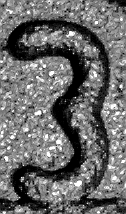
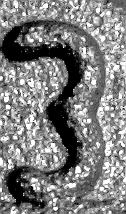
Refactor OCR prediction process to enhance candidate selection and confidence handling; update debug image outputs

diff --git a/character_recognition/predict_easyocr.py b/character_recognition/predict_easyocr.py
@@ -98,46 +98,71 @@ def predict_regions(image_path, annotations_file):
     plt.show()
     
     # Process each region with OCR and build predictions
+    from collections import Counter
     for idx, (region_image, coords) in enumerate(regions_processed):
+        candidates = []
+        confidences = []
+        
+        # Attempt 1: Original preprocessed image
         region_np = np.array(region_image)
-        # Run easyocr on the processed region
-        results = reader.readtext(region_np)
-        if results:
-            best = max(results, key=lambda x: x[2])
-            text = best[1].strip()
-            conf = best[2]
-            final_image = region_image  # final image is the original preprocessed one
-        else:
-            # Fallback strategy: invert the image and retry OCR
-            from PIL import ImageOps
-            fallback = region_image.copy().convert("L")
-            fallback = ImageOps.invert(fallback)
-            fallback = fallback.convert("RGB")
-            results_alt = reader.readtext(np.array(fallback))
-            if results_alt:
-                best = max(results_alt, key=lambda x: x[2])
-                text = best[1].strip() + " [inv]"
-                conf = best[2]
-                final_image = fallback  # final image is the inverted fallback
+        results1 = reader.readtext(region_np)
+        if results1:
+            best1 = max(results1, key=lambda x: x[2])
+            cand1 = best1[1].strip()
+            candidates.append(cand1)
+            confidences.append(best1[2])
+        
+        # Attempt 2: Inverted image
+        from PIL import ImageOps
+        inverted = region_image.copy().convert("L")
+        inverted = ImageOps.invert(inverted)
+        inverted = inverted.convert("RGB")
+        results2 = reader.readtext(np.array(inverted))
+        if results2:
+            best2 = max(results2, key=lambda x: x[2])
+            cand2 = best2[1].strip()
+            candidates.append(cand2)
+            confidences.append(best2[2])
+        
+        # Attempt 3: Binarized (thresholded) image
+        binarized = region_image.convert("L").point(lambda p: 255 if p > 128 else 0, mode="1")
+        binarized = binarized.convert("RGB")
+        results3 = reader.readtext(np.array(binarized))
+        if results3:
+            best3 = max(results3, key=lambda x: x[2])
+            cand3 = best3[1].strip()
+            candidates.append(cand3)
+            confidences.append(best3[2])
+        
+        # Clean candidates (remove any fallback markers)
+        cleaned_candidates = [cand.replace(" [inv]", "") for cand in candidates]
+        # Use majority vote if available; otherwise choose the candidate with highest confidence.
+        counter = Counter(cleaned_candidates)
+        if counter:
+            majority_candidate, count = counter.most_common(1)[0]
+            if count >= 2:
+                final_text = majority_candidate
             else:
-                text = ""
-                conf = 0.0
-                final_image = region_image  # keep original if no detection
+                final_text = cleaned_candidates[confidences.index(max(confidences))]
+        else:
+            final_text = ""
+        
+        # Set final confidence as max confidence among attempts (if available)
+        conf = max(confidences) if confidences else 0.0
 
-        # Post-process OCR result: if text (ignoring any fallback marker) consists entirely of a repeated character, collapse it.
-        marker = " [inv]" if "[inv]" in text else ""
-        base_text = text.replace(" [inv]", "")
-        if base_text and len(set(base_text)) == 1 and len(base_text) > 1:
-            text = base_text[0] + marker
+        # Additional post-process: collapse repeated characters (if any)
+        if final_text and len(set(final_text)) == 1 and len(final_text) > 1:
+            final_text = final_text[0]
 
         # Save debug images (optional)
         region_image.save(f"debug_region_{idx+1}.png")
-        final_image.save(f"debug_final_region_{idx+1}.png")
+        inverted.save(f"debug_inverted_region_{idx+1}.png")
+        binarized.save(f"debug_binarized_region_{idx+1}.png")
 
         predictions.append({
             'region_index': idx,
             'coordinates': {'x': coords[0], 'y': coords[1], 'width': coords[2], 'height': coords[3]},
-            'prediction': text,
+            'prediction': final_text,
             'confidence': conf
         })
 
@@ -187,7 +212,7 @@ def predict_regions(image_path, annotations_file):
 
 
 if __name__ == "__main__":
-    image_path = r"D:\hik\hik3\Image_w4024_h3036_fn653.png"
+    image_path = r"D:\hik\hik3\Image_w4024_h3036_fn692.png"
     annotations_file = "data/annotations/annotations.json"
     
     try:
